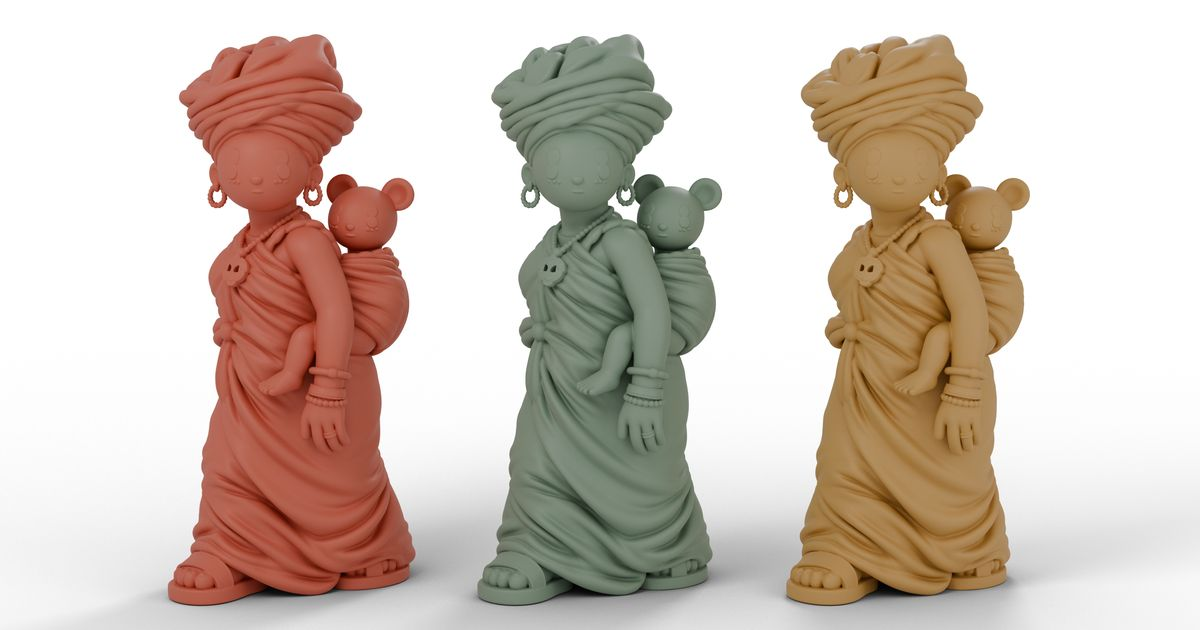
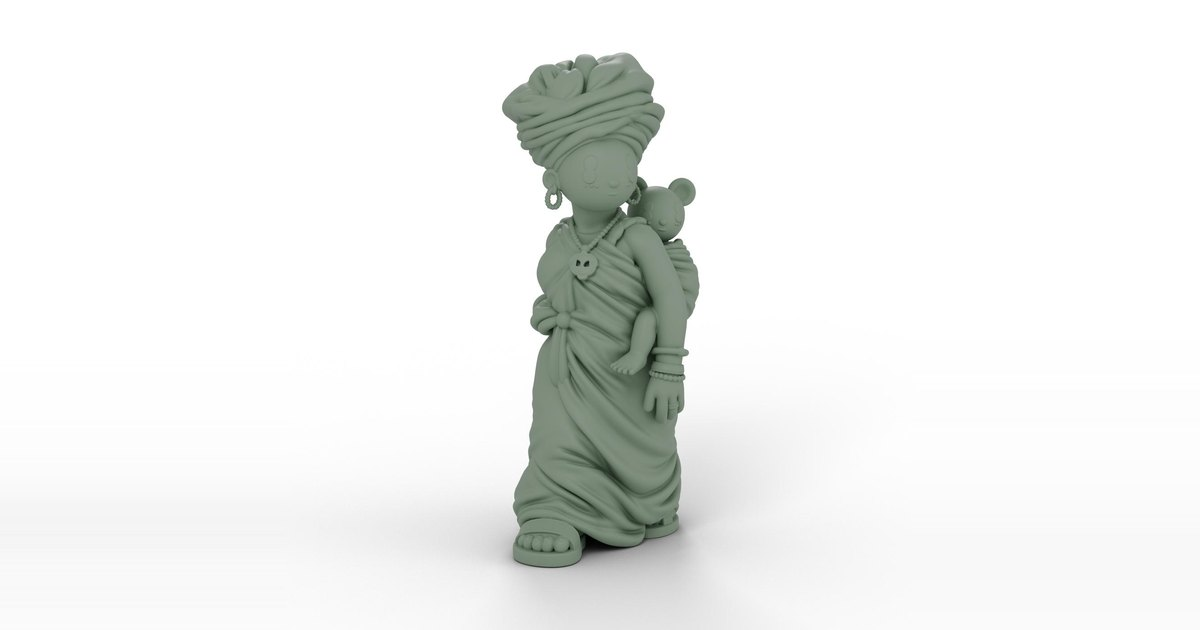
Mama Comfort: Sage Green only
Drop Terracotta (C01) and Sand (C03) from the pre-order page config,
gallery and copy; edition copy no longer says 'per colourway'. New
single-figure OG and products-card images from the C02 front render.
Shopify figure template/section defaults and README updated to match.

Claude-Session: https://claude.ai/code/session_01Bh6FKoam28grQbtsbrdq5t

diff --git a/products/mama-comfort/index.html b/products/mama-comfort/index.html
@@ -28,23 +28,23 @@
   <link rel="icon" type="image/svg+xml" href="/favicon.svg" />
   <link rel="apple-touch-icon" href="/apple-touch-icon.png" />
   <title>Mama Comfort — Pre-order — Fola Adeleke®</title>
-  <meta name="description" content="Mama Comfort by Fola Adeleke — a 280 mm soft vinyl collectible figure in three colourways. Numbered limited edition, available to pre-order." />
+  <meta name="description" content="Mama Comfort by Fola Adeleke — a 280 mm soft vinyl collectible figure in Sage Green. Numbered limited edition, available to pre-order." />
   <link rel="canonical" href="https://folaadeleke.com/products/mama-comfort" />
 
   <!-- Open Graph / social preview -->
   <meta property="og:type" content="product" />
   <meta property="og:site_name" content="Fola Adeleke®" />
   <meta property="og:title" content="Mama Comfort — Pre-order — Fola Adeleke®" />
-  <meta property="og:description" content="A 280 mm soft vinyl collectible figure in three colourways. Numbered limited edition, available to pre-order." />
+  <meta property="og:description" content="A 280 mm soft vinyl collectible figure in Sage Green. Numbered limited edition, available to pre-order." />
   <meta property="og:url" content="https://folaadeleke.com/products/mama-comfort" />
   <meta property="og:image" content="https://folaadeleke.com/images/mama-comfort/og-mama-comfort.jpg" />
   <meta property="og:image:width" content="1200" />
   <meta property="og:image:height" content="630" />
-  <meta property="og:image:alt" content="Mama Comfort soft vinyl figures by Fola Adeleke in terracotta, sage green and sand" />
+  <meta property="og:image:alt" content="Mama Comfort soft vinyl figure by Fola Adeleke in Sage Green" />
   <meta property="og:locale" content="en_GB" />
   <meta name="twitter:card" content="summary_large_image" />
   <meta name="twitter:title" content="Mama Comfort — Pre-order — Fola Adeleke®" />
-  <meta name="twitter:description" content="A 280 mm soft vinyl collectible figure in three colourways. Numbered limited edition, available to pre-order." />
+  <meta name="twitter:description" content="A 280 mm soft vinyl collectible figure in Sage Green. Numbered limited edition, available to pre-order." />
   <meta name="twitter:image" content="https://folaadeleke.com/images/mama-comfort/og-mama-comfort.jpg" />
 
   <style>
@@ -373,7 +373,7 @@
         <strong id="preorderClockValue"></strong>
       </div>
 
-      <p class="product-caption">A mother carries her child &mdash; Fola&#8217;s figurative language lifted off the canvas and into the round. Cast in soft vinyl at 280 mm, signed with a debossed mark on the sole, and released as a numbered edition in three colourways. <em>Once an edition is gone, that colourway is not remade.</em></p>
+      <p class="product-caption">A mother carries her child &mdash; Fola&#8217;s figurative language lifted off the canvas and into the round. Cast in soft vinyl at 280 mm, signed with a debossed mark on the sole, and released as a numbered edition in a single colourway, Sage Green. <em>Once the edition is gone, it is not remade.</em></p>
 
       <section class="preorder-terms" aria-labelledby="termsTitle">
         <h2 id="termsTitle">How the pre-order works</h2>
@@ -387,7 +387,7 @@
 
       <dl class="product-details">
         <dt>Edition</dt>
-        <dd><span data-preorder="edition">Edition of 20</span> per colourway, individually numbered</dd>
+        <dd><span data-preorder="edition">Edition of 20</span>, individually numbered</dd>
         <dt>Dimensions</dt>
         <dd>280 &times; 127 &times; 76 mm (H &times; W &times; D)</dd>
         <dt>Material</dt>
@@ -395,7 +395,7 @@
         <dt>Signature</dt>
         <dd>Fola Adeleke&reg; mark debossed into the sole</dd>
         <dt>Packaging</dt>
-        <dd>White rigid box with a pencil drawing of the figure in its colourway, 300 &times; 150 &times; 135 mm</dd>
+        <dd>White rigid box with a pencil drawing of the figure in Sage Green, 300 &times; 150 &times; 135 mm</dd>
         <dt>Images</dt>
         <dd>Pre-production renders. The finished figure may differ slightly.</dd>
         <dt>Certificate</dt>
@@ -417,7 +417,7 @@
       </details>
       <details>
         <summary>How does the numbering work?</summary>
-        <p>Each colourway is a separate edition of <span data-preorder="edition-count">20</span>. Numbers are assigned in order of purchase and recorded on your certificate of authenticity. When a colourway sells out it is closed for good.</p>
+        <p>Mama Comfort is a single edition of <span data-preorder="edition-count">20</span> in Sage Green. Numbers are assigned in order of purchase and recorded on your certificate of authenticity. When the edition sells out it is closed for good.</p>
       </details>
       <details>
         <summary>Do you ship outside the UK?</summary>
@@ -474,12 +474,11 @@
       editionPerColourway: 20,
       dispatch: 'January 2027',
       opens: '2026-10-12T21:18:00Z',   // pre-orders open
-      closes: null,                    // open until each colourway sells out
+      closes: null,                    // open until the edition sells out
       colourways: [
+        // Sage Green only (Terracotta C01 and Sand C03 are not being produced).
         // Each colourway is its own Shopify product. remaining: null hides the count.
-        { code: 'C01', name: 'Terracotta', hex: '#CD6F5E', url: 'https://shop.folaadeleke.com/products/mama-comfort-terracotta', remaining: null, soldOut: false },
-        { code: 'C02', name: 'Sage Green', hex: '#8A9E8A', url: 'https://shop.folaadeleke.com/products/mama-comfort-sage-green', remaining: null, soldOut: false },
-        { code: 'C03', name: 'Sand',       hex: '#C9A064', url: 'https://shop.folaadeleke.com/products/mama-comfort-sand',       remaining: null, soldOut: false }
+        { code: 'C02', name: 'Sage Green', hex: '#8A9E8A', url: 'https://shop.folaadeleke.com/products/mama-comfort-sage-green', remaining: null, soldOut: false }
       ],
       defaultColourway: 'C02',
       // One slide per product_shots.py set. `src` is a path, or a map of
@@ -487,13 +486,12 @@
       // Pre-production renders, exported by scripts/relief/export_web_shots.py.
       // Paths are written out in full so check-site.mjs can verify each one.
       shots: [
-        { name: 'Front',            src: { C01: '/images/mama-comfort/front-c01.jpg', C02: '/images/mama-comfort/front-c02.jpg', C03: '/images/mama-comfort/front-c03.jpg' } },
-        { name: 'Boxed',            src: { C01: '/images/mama-comfort/boxed-c01.jpg', C02: '/images/mama-comfort/boxed-c02.jpg', C03: '/images/mama-comfort/boxed-c03.jpg' } },
-        { name: 'Back',             src: { C01: '/images/mama-comfort/back-c01.jpg', C02: '/images/mama-comfort/back-c02.jpg', C03: '/images/mama-comfort/back-c03.jpg' } },
-        { name: 'Side',             src: { C01: '/images/mama-comfort/side-c01.jpg', C02: '/images/mama-comfort/side-c02.jpg', C03: '/images/mama-comfort/side-c03.jpg' } },
-        { name: 'Signed Sole',      src: { C01: '/images/mama-comfort/sole-c01.jpg', C02: '/images/mama-comfort/sole-c02.jpg', C03: '/images/mama-comfort/sole-c03.jpg' } },
-        { name: 'Detail',           src: { C01: '/images/mama-comfort/detail-c01.jpg', C02: '/images/mama-comfort/detail-c02.jpg', C03: '/images/mama-comfort/detail-c03.jpg' } },
-        { name: 'Three Colourways', src: '/images/mama-comfort/colourways.jpg' }
+        { name: 'Front',            src: { C02: '/images/mama-comfort/front-c02.jpg' } },
+        { name: 'Boxed',            src: { C02: '/images/mama-comfort/boxed-c02.jpg' } },
+        { name: 'Back',             src: { C02: '/images/mama-comfort/back-c02.jpg' } },
+        { name: 'Side',             src: { C02: '/images/mama-comfort/side-c02.jpg' } },
+        { name: 'Signed Sole',      src: { C02: '/images/mama-comfort/sole-c02.jpg' } },
+        { name: 'Detail',           src: { C02: '/images/mama-comfort/detail-c02.jpg' } }
       ]
     };
 
@@ -526,7 +524,7 @@
         return typeof shot.src === 'string' ? shot.src : (shot.src[selected.code] || '');
       }
       function shotAlt(shot) {
-        var who = typeof shot.src === 'string' ? 'all three colourways' : selected.code + ' ' + selected.name;
+        var who = selected.code + ' ' + selected.name;
         return 'Mama Comfort figure — ' + shot.name + ', ' + who;
       }
 

diff --git a/products/index.html b/products/index.html
@@ -244,12 +244,12 @@
     <div class="product-grid">
       <a class="product-card" href="/products/mama-comfort">
         <div class="card-image card-image--wide">
-          <img src="/images/mama-comfort/card-colourways.jpg" alt="Mama Comfort figures in Terracotta, Sage Green and Sand" decoding="async" />
+          <img src="/images/mama-comfort/card-sage-green.jpg" alt="Mama Comfort figure in Sage Green" decoding="async" />
         </div>
         <div class="card-body">
           <p class="card-kicker">Pre-order &middot; Collectible Figure</p>
           <h2 class="card-title">Mama Comfort</h2>
-          <p class="card-desc">A 280 mm soft vinyl figure in three colourways &mdash; Terracotta, Sage Green and Sand. Numbered edition of 20 per colourway, estimated dispatch January 2027.</p>
+          <p class="card-desc">A 280 mm soft vinyl figure in Sage Green. Numbered edition of 20, estimated dispatch January 2027.</p>
           <p class="card-price">&#163;150</p>
           <span class="card-cta">Pre-order</span>
         </div>

diff --git a/shopify-theme-figure/README.md b/shopify-theme-figure/README.md
@@ -10,7 +10,7 @@ no "made to order" copy, no handle-based square-print logic.
 
 | Area | Prints theme | Objects theme |
 |---|---|---|
-| Colourways | `Size` = A1/A2/A3, dimensions hard-coded per handle | Colourways as **separate products** (current setup: `mama-comfort-terracotta` / `-sage-green` / `-sand`) render as linked swatches; a `Colourway` variant option also works and switches the image |
+| Colourways | `Size` = A1/A2/A3, dimensions hard-coded per handle | Colourways as **separate products** (originally `mama-comfort-terracotta` / `-sage-green` / `-sand`; now Sage Green only, so no swatches show) render as linked swatches; a `Colourway` variant option also works and switches the image |
 | Gallery | Portrait 3:4, images only | Square stage, images + video + **3D models** (upload a GLB to the product) |
 | Specs | Paper size, edition | Edition, dimensions (H × W × D), material, signature, packaging, certificate — copy taken from `products/mama-comfort/` |
 | Stock | Add to cart / Sold out | **Pre-order** (with the four pre-order terms above the button and an "est. dispatch" line property), "Only N of 20 left", Sold out; per-order limit |
@@ -25,7 +25,10 @@ Also fixes two things broken in the prints theme: `collection.css` and
 
 ## Product setup in Shopify admin
 
-1. **Colourways** (current setup: one product per colourway). Put the three
+1. **Colourways** (one product per colourway). Mama Comfort is now Sage
+   Green only: `mama-comfort-sage-green` is the one live product, and
+   Terracotta / Sand are archived, so the picker hides itself (it needs two
+   or more published products). If colourways return, put the
    products in one collection (e.g. `mama-comfort`) and pick it in
    *Product page → Colourway collection*, or set a `custom.colourways`
    product-list metafield. Swatch colours come from a `custom.swatch`
@@ -78,7 +81,7 @@ its own store; keep both copies of the product section in step.
 ## Defaults to check
 
 Spec and terms copy is lifted from `products/mama-comfort/index.html`
-(Oct 2026): edition of 20 per colourway, 280 × 127 × 76 mm, soft vinyl
+(Oct 2026): Sage Green only, edition of 20, 280 × 127 × 76 mm, soft vinyl
 (PVC), dispatch January 2027. If any of that changes, update the section
 settings in the theme editor (or the metafields) as well as the page.
 Theme-only assumptions to confirm: limit 3 per order, "Only N of 20 left"
